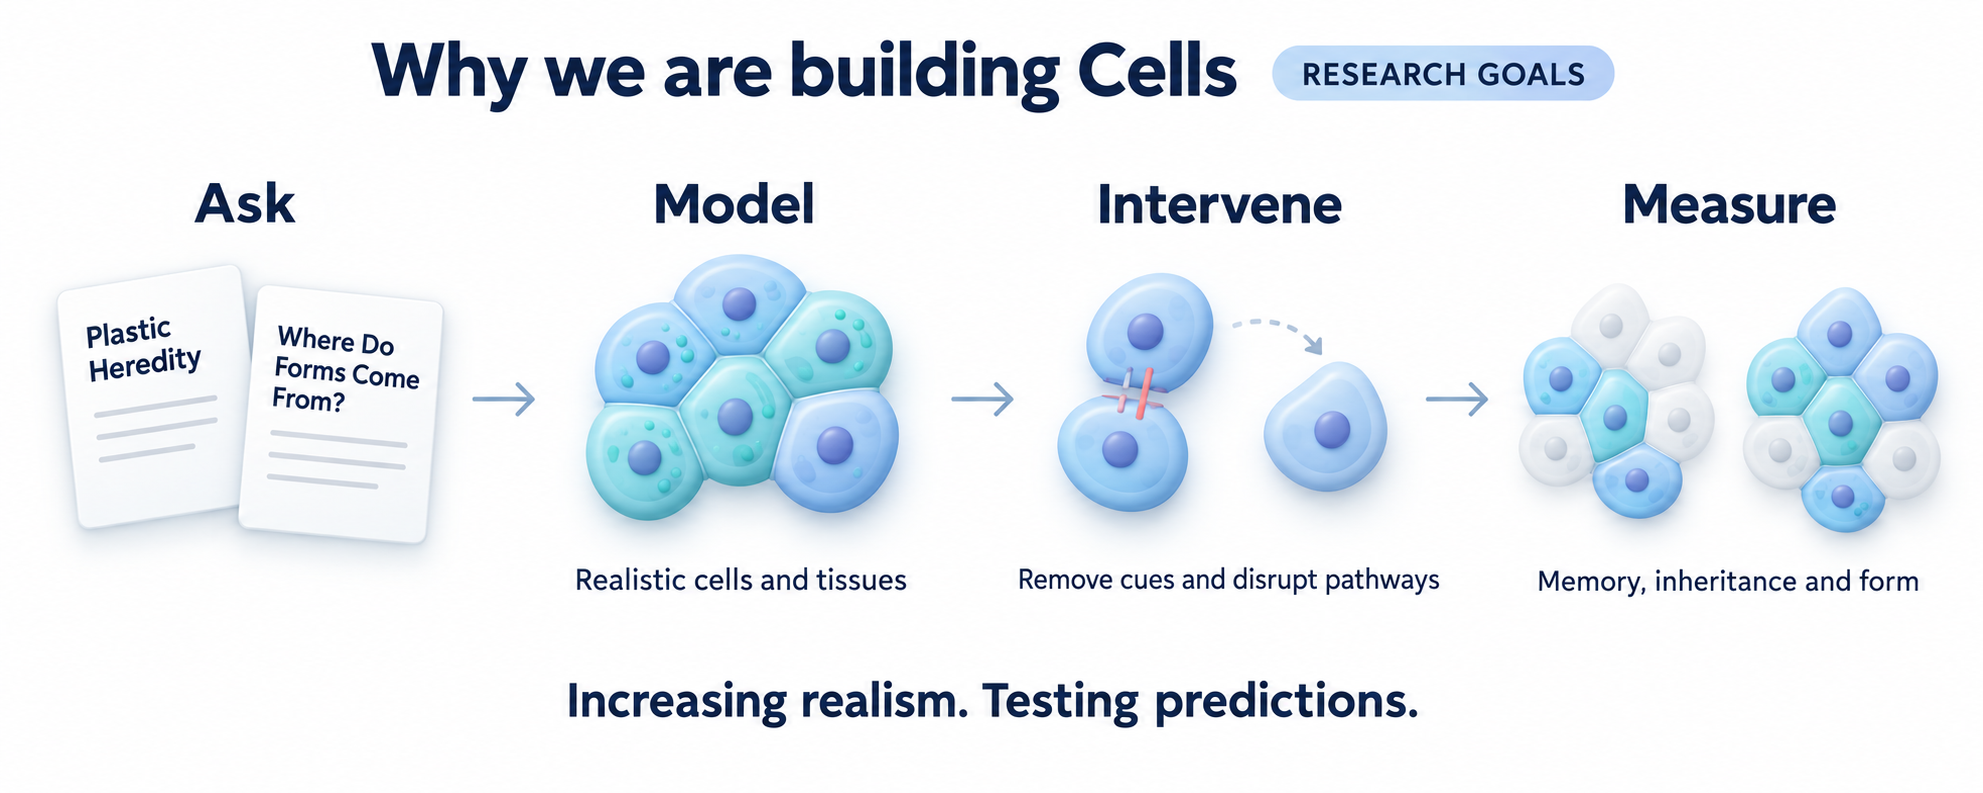
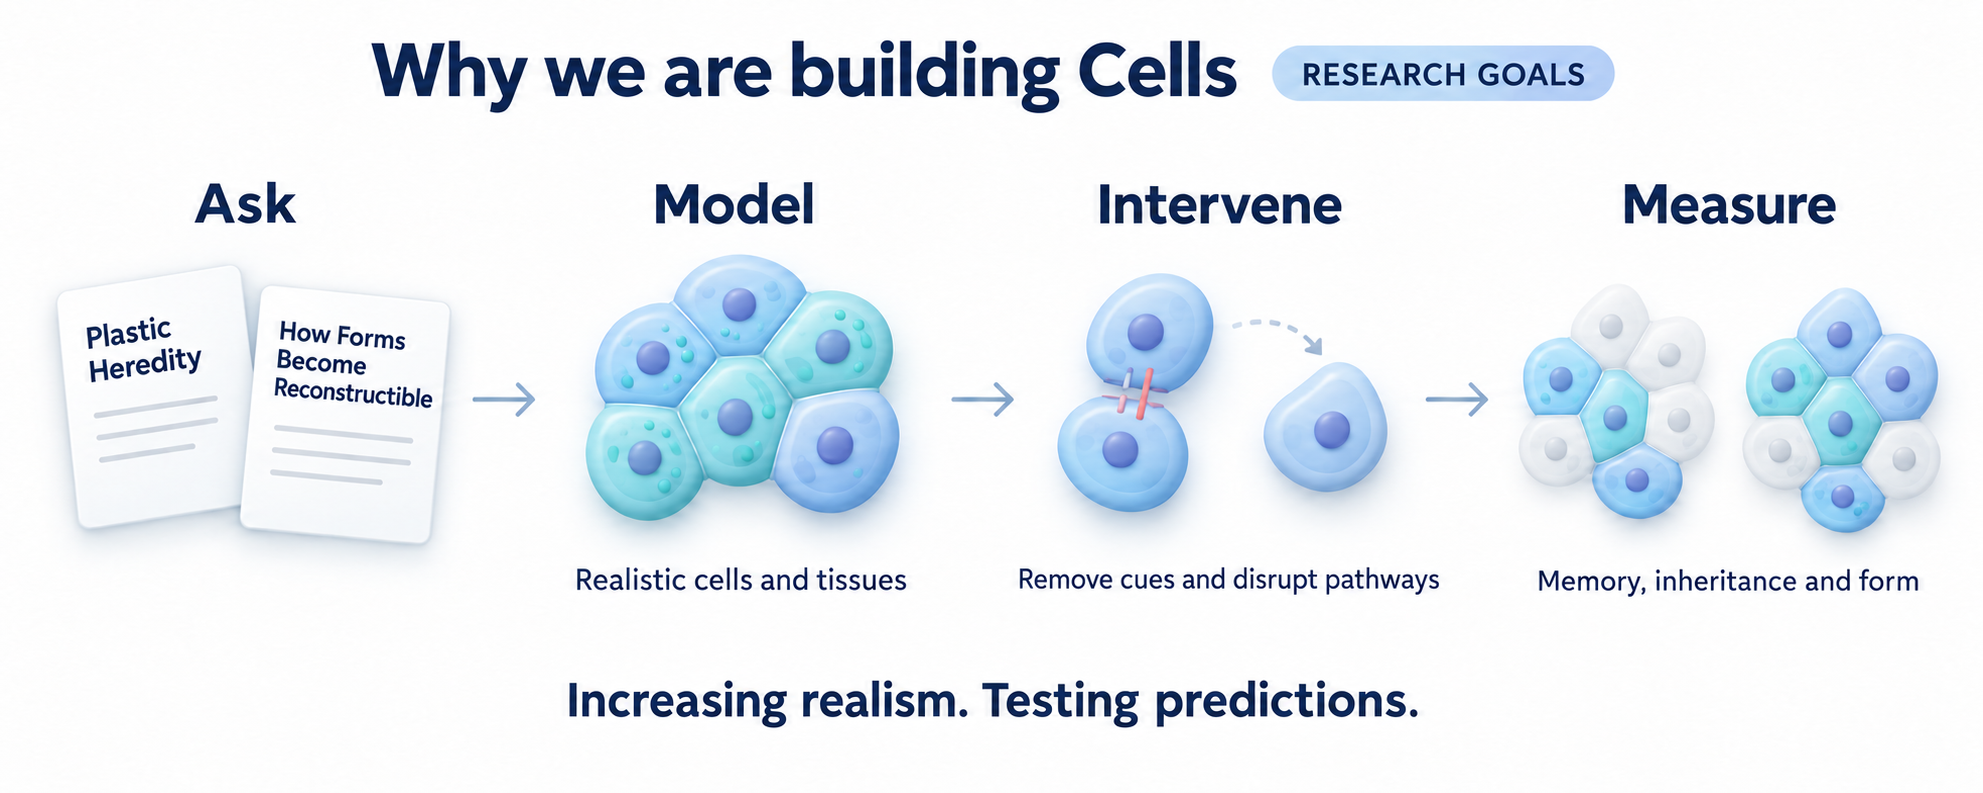
Documentation

diff --git a/README.md b/README.md
@@ -12,15 +12,16 @@ status and [Scientific basis](docs/SCIENTIFIC_BASIS.md) for the research backgro
 ## Why we are building Cells
 
 One of Cells' central goals is to test the ideas in our *Plastic Heredity* and
-*Where Do Forms Come From?* preprints in the most biologically and physically
-realistic simulations we can build and verify.
+*How Forms Become Reconstructible* preprints in the most biologically and
+physically realistic simulations we can build and verify.
 
-![Cells research goals: ask questions from Plastic Heredity and Where Do Forms Come From?, model realistic cells and tissues, remove cues and disrupt pathways, and measure memory, inheritance and form.](docs/assets/cells-research-goals.png)
+![Cells research goals: ask questions from Plastic Heredity and How Forms Become Reconstructible, model realistic cells and tissues, remove cues and disrupt pathways, and measure memory, inheritance and form.](docs/assets/cells-research-goals.png)
 
 - **Plastic Heredity:** When does inherited organisation break, recover or
   persist? What lets an acquired state pass to new carriers and be renewed?
-- **Forms:** How do experience, retained cellular state and tissue organisation
-  affect which patterns and functions can be expressed, repaired or reconstructed?
+- **How Forms Become Reconstructible:** How do experience, retained cellular
+  state and tissue organisation affect which patterns and functions can be
+  expressed, repaired or reconstructed?
 
 We are building toward experiments that remove cues, disrupt candidate memory
 mechanisms, change cell membership and challenge cells with matched visible

diff --git a/docs/PAPER_REVIEW_CCI_SEQ.md b/docs/PAPER_REVIEW_CCI_SEQ.md
@@ -30,10 +30,10 @@ Fig. 2, Discussion and Methods. [Source](https://www.nature.com/articles/s41592-
 | Next | Use kidney transport programs to choose which channel/buffer/exchanger mechanisms need development and independent calibration. | [Tissue calcium](../src/cells/models/tissue_calcium.py) already composes free/bound calcium, ER, PMCA/NCX and CaV1.2. Its synthetic buffers and CaV1.2 must not be relabelled as measured calbindin or TRPV5. Polarized epithelial surfaces and appropriate reservoirs also need separate modelling. |
 | Later | Test whether an explicitly modelled neighbour signal changes a cell's transport machinery and persists after removal. | Requires a causal regulatory law, parameter evidence and a declared timescale. The present fast ionic solver does not infer these from RNA counts. |
 
-For Plastic Heredity and Where Do Forms Come From, I would compare identical
-starting cells under different neighbourhoods, then restore a common environment
-and apply the same challenge. Separate ongoing environmental support, persistent
-state and transmission to fresh recipients. This is a proposed assay; the
+For Plastic Heredity and How Forms Become Reconstructible, I would compare
+identical starting cells under different neighbourhoods, then restore a common
+environment and apply the same challenge. Separate ongoing environmental support,
+persistent state and transmission to fresh recipients. This is a proposed assay; the
 paper does not demonstrate renewable heredity.
 
 For assembly, retain the existing distinction between the protein-bond graph

diff --git a/PROGRESS.md b/PROGRESS.md
@@ -59,12 +59,12 @@ in [Roadmap](docs/ROADMAP.md), scientific updates in
   or multi-GPU claim follows; no automatic polling or follow-up is scheduled.
 
 - **README research purpose added, 11 October.** An
-  [early section](README.md#why-we-are-building-cells) now makes testing Plastic
-  Heredity and the Forms preprint in increasingly realistic cell/tissue models
-  a central goal. A matching [conceptual infographic](docs/assets/cells-research-goals.png)
+  [early section](README.md#why-we-are-building-cells) now makes testing *Plastic
+  Heredity* and *How Forms Become Reconstructible* in increasingly realistic
+  cell/tissue models a central goal. A matching [conceptual infographic](docs/assets/cells-research-goals.png)
   presents questions, models, interventions and measurements as research goals.
   [Prompts](docs/assets/readme-image-prompts.json) and
-  [documentation checks](/mnt/workspaces/Cells/readme-research-goals-20261011-01/verification.json)
+  [documentation checks](/mnt/workspaces/Cells/readme-forms-title-20261011-01/verification.json)
   preserve the asset provenance and distinguish this wording update from a new
   experiment or scientific qualification.
 

diff --git a/docs/SCIENTIFIC_BASIS.md b/docs/SCIENTIFIC_BASIS.md
@@ -34,6 +34,9 @@ recorded separately so a newer manuscript or mechanism does not silently replace
 an earlier source version. Navigation was reviewed on **2026-10-11**; no new
 literature search or experimental reanalysis was performed for this docs update.
 
+The Forms preprint is now titled *How Forms Become Reconstructible*. The September
+orientation below retains the title used at that review.
+
 | Reviewed material | Maintained entry point | Scope |
 | --- | --- | --- |
 | Plastic Heredity v5.0 and Where Do Forms Come From? v0.11, September orientation | [Recorded orientation](../PROGRESS.md) | Later research context; manuscripts belong to the external research tree and do not overwrite S01's v2.3 review |

diff --git a/docs/PAPER_REVIEW_MITOCHONDRIA.md b/docs/PAPER_REVIEW_MITOCHONDRIA.md
@@ -73,7 +73,8 @@ fission/fusion changes area or capacitance, its material, charge and energy
 changes also need accounting. New stiffness and timescales require their own
 step-refinement and independent-solver checks.
 
-For Plastic Heredity and Where Do Forms Come From, a useful proposed assay is:
+For Plastic Heredity and How Forms Become Reconstructible, a useful proposed
+assay is:
 condition otherwise matched cells, remove the conditioning, restore a common
 environment, then challenge them. Separately compare retaining, resetting or
 transferring mitochondrial state, while controlling mtDNA genotype, host
